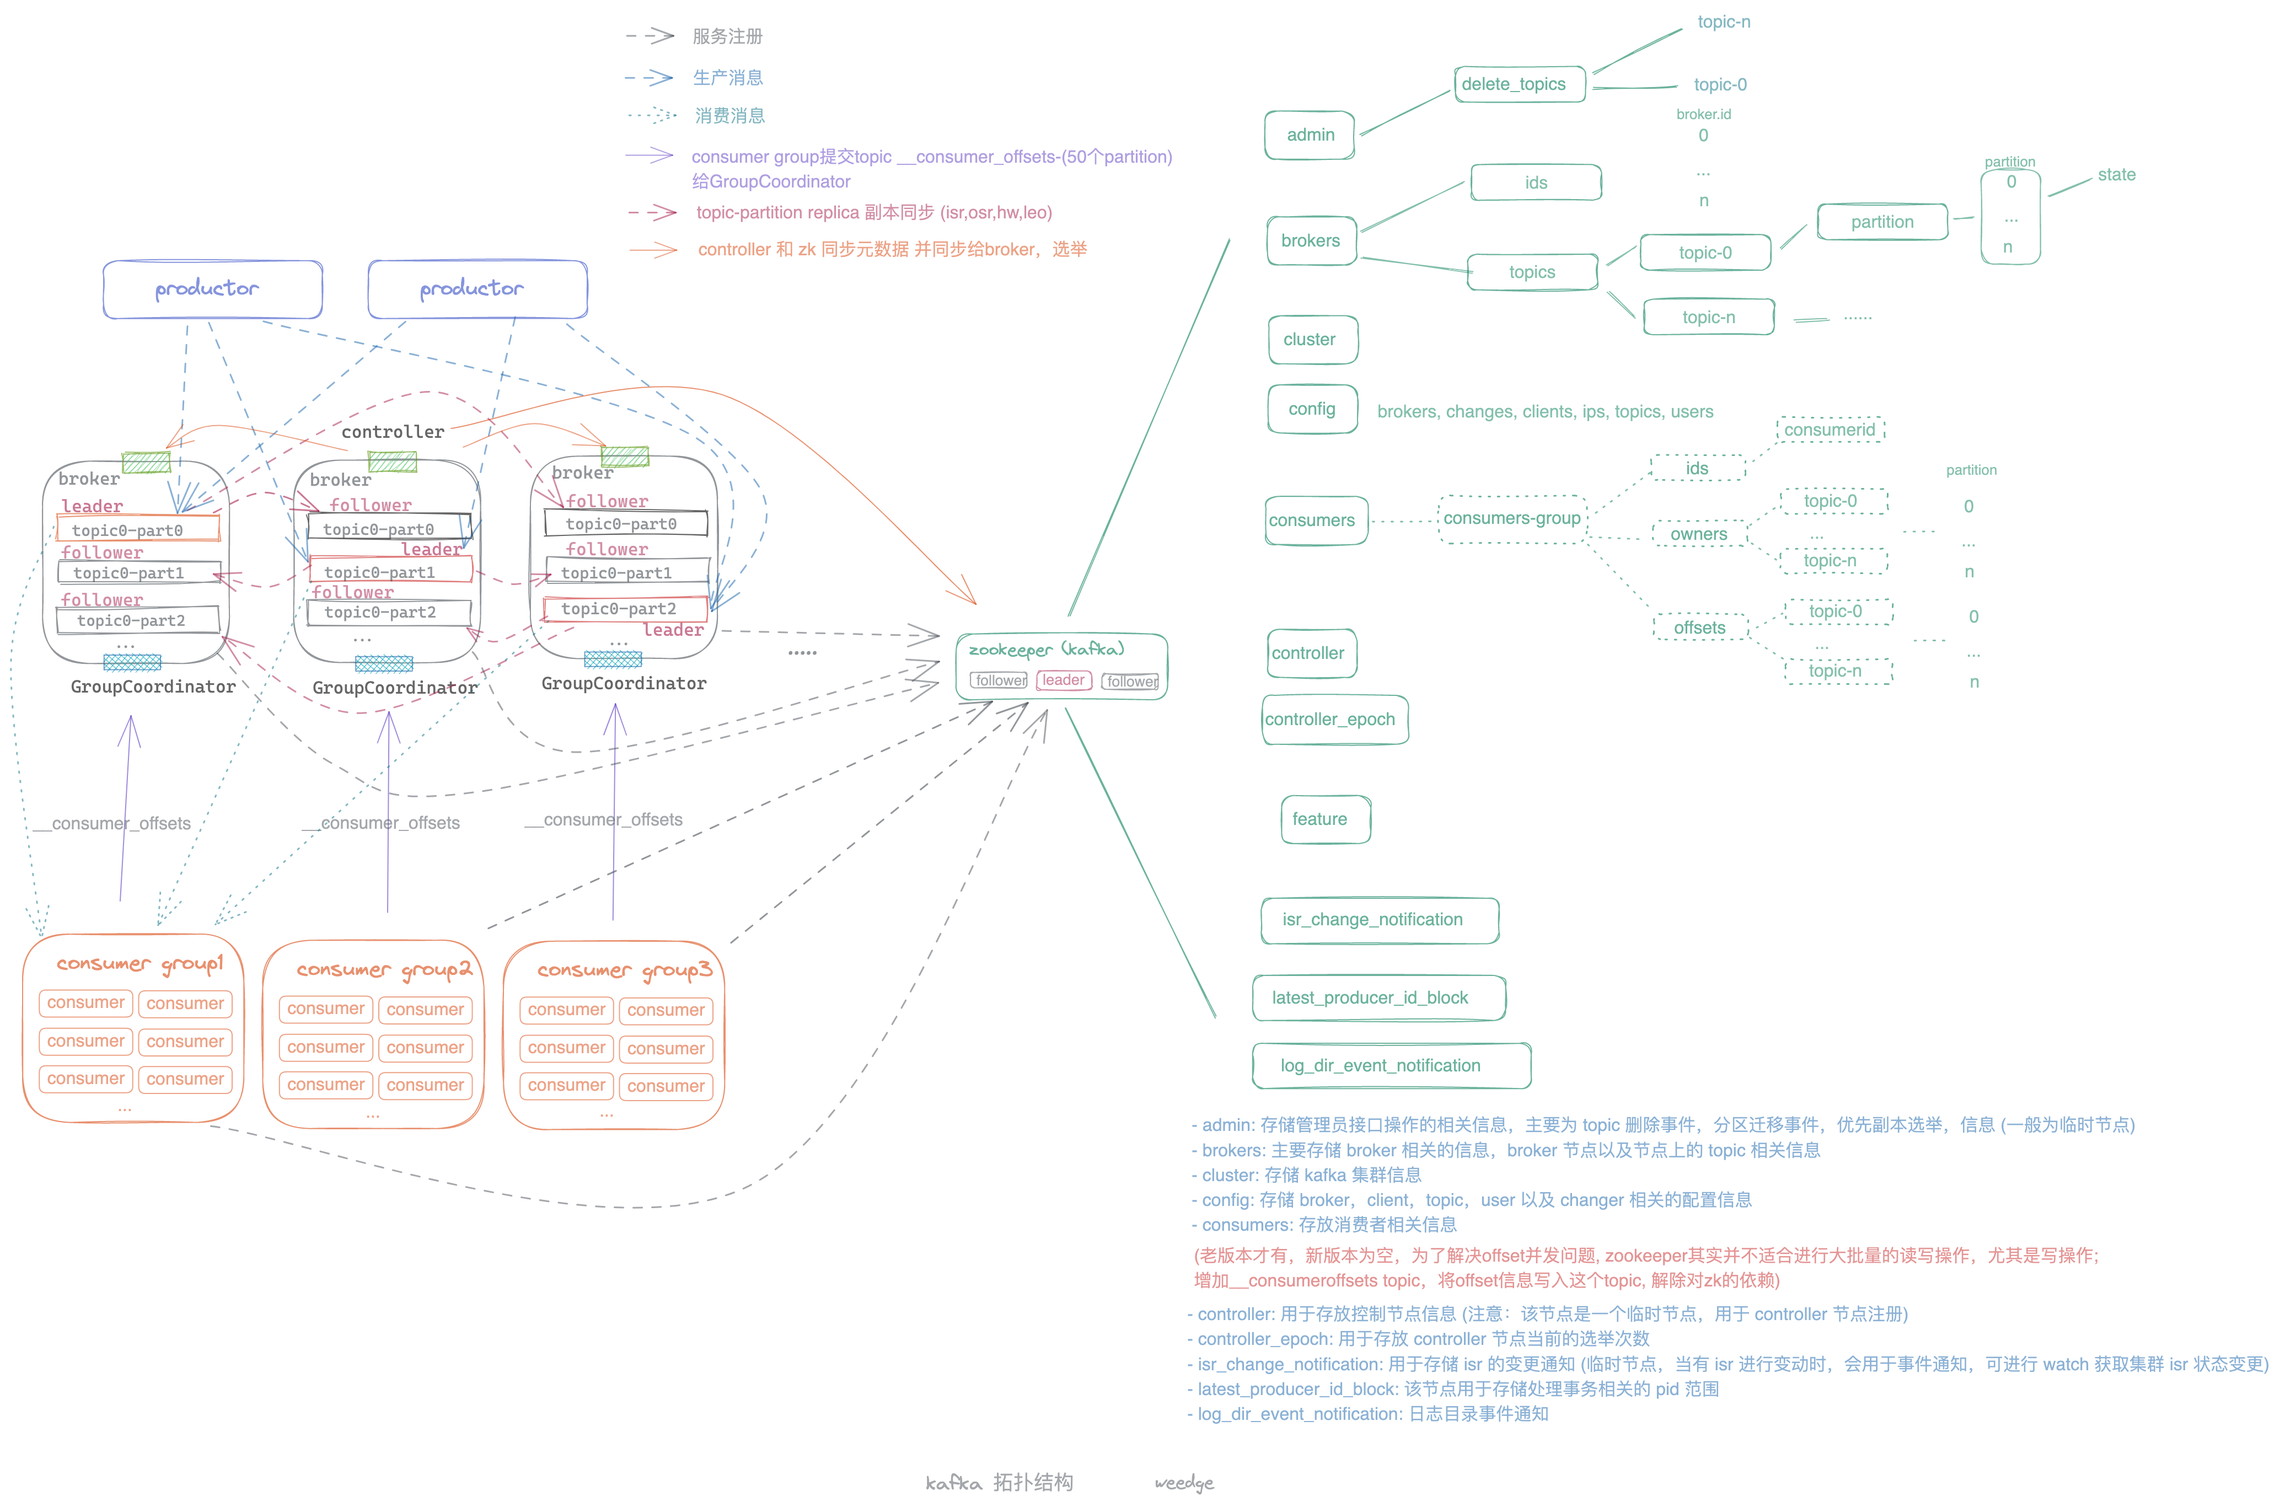
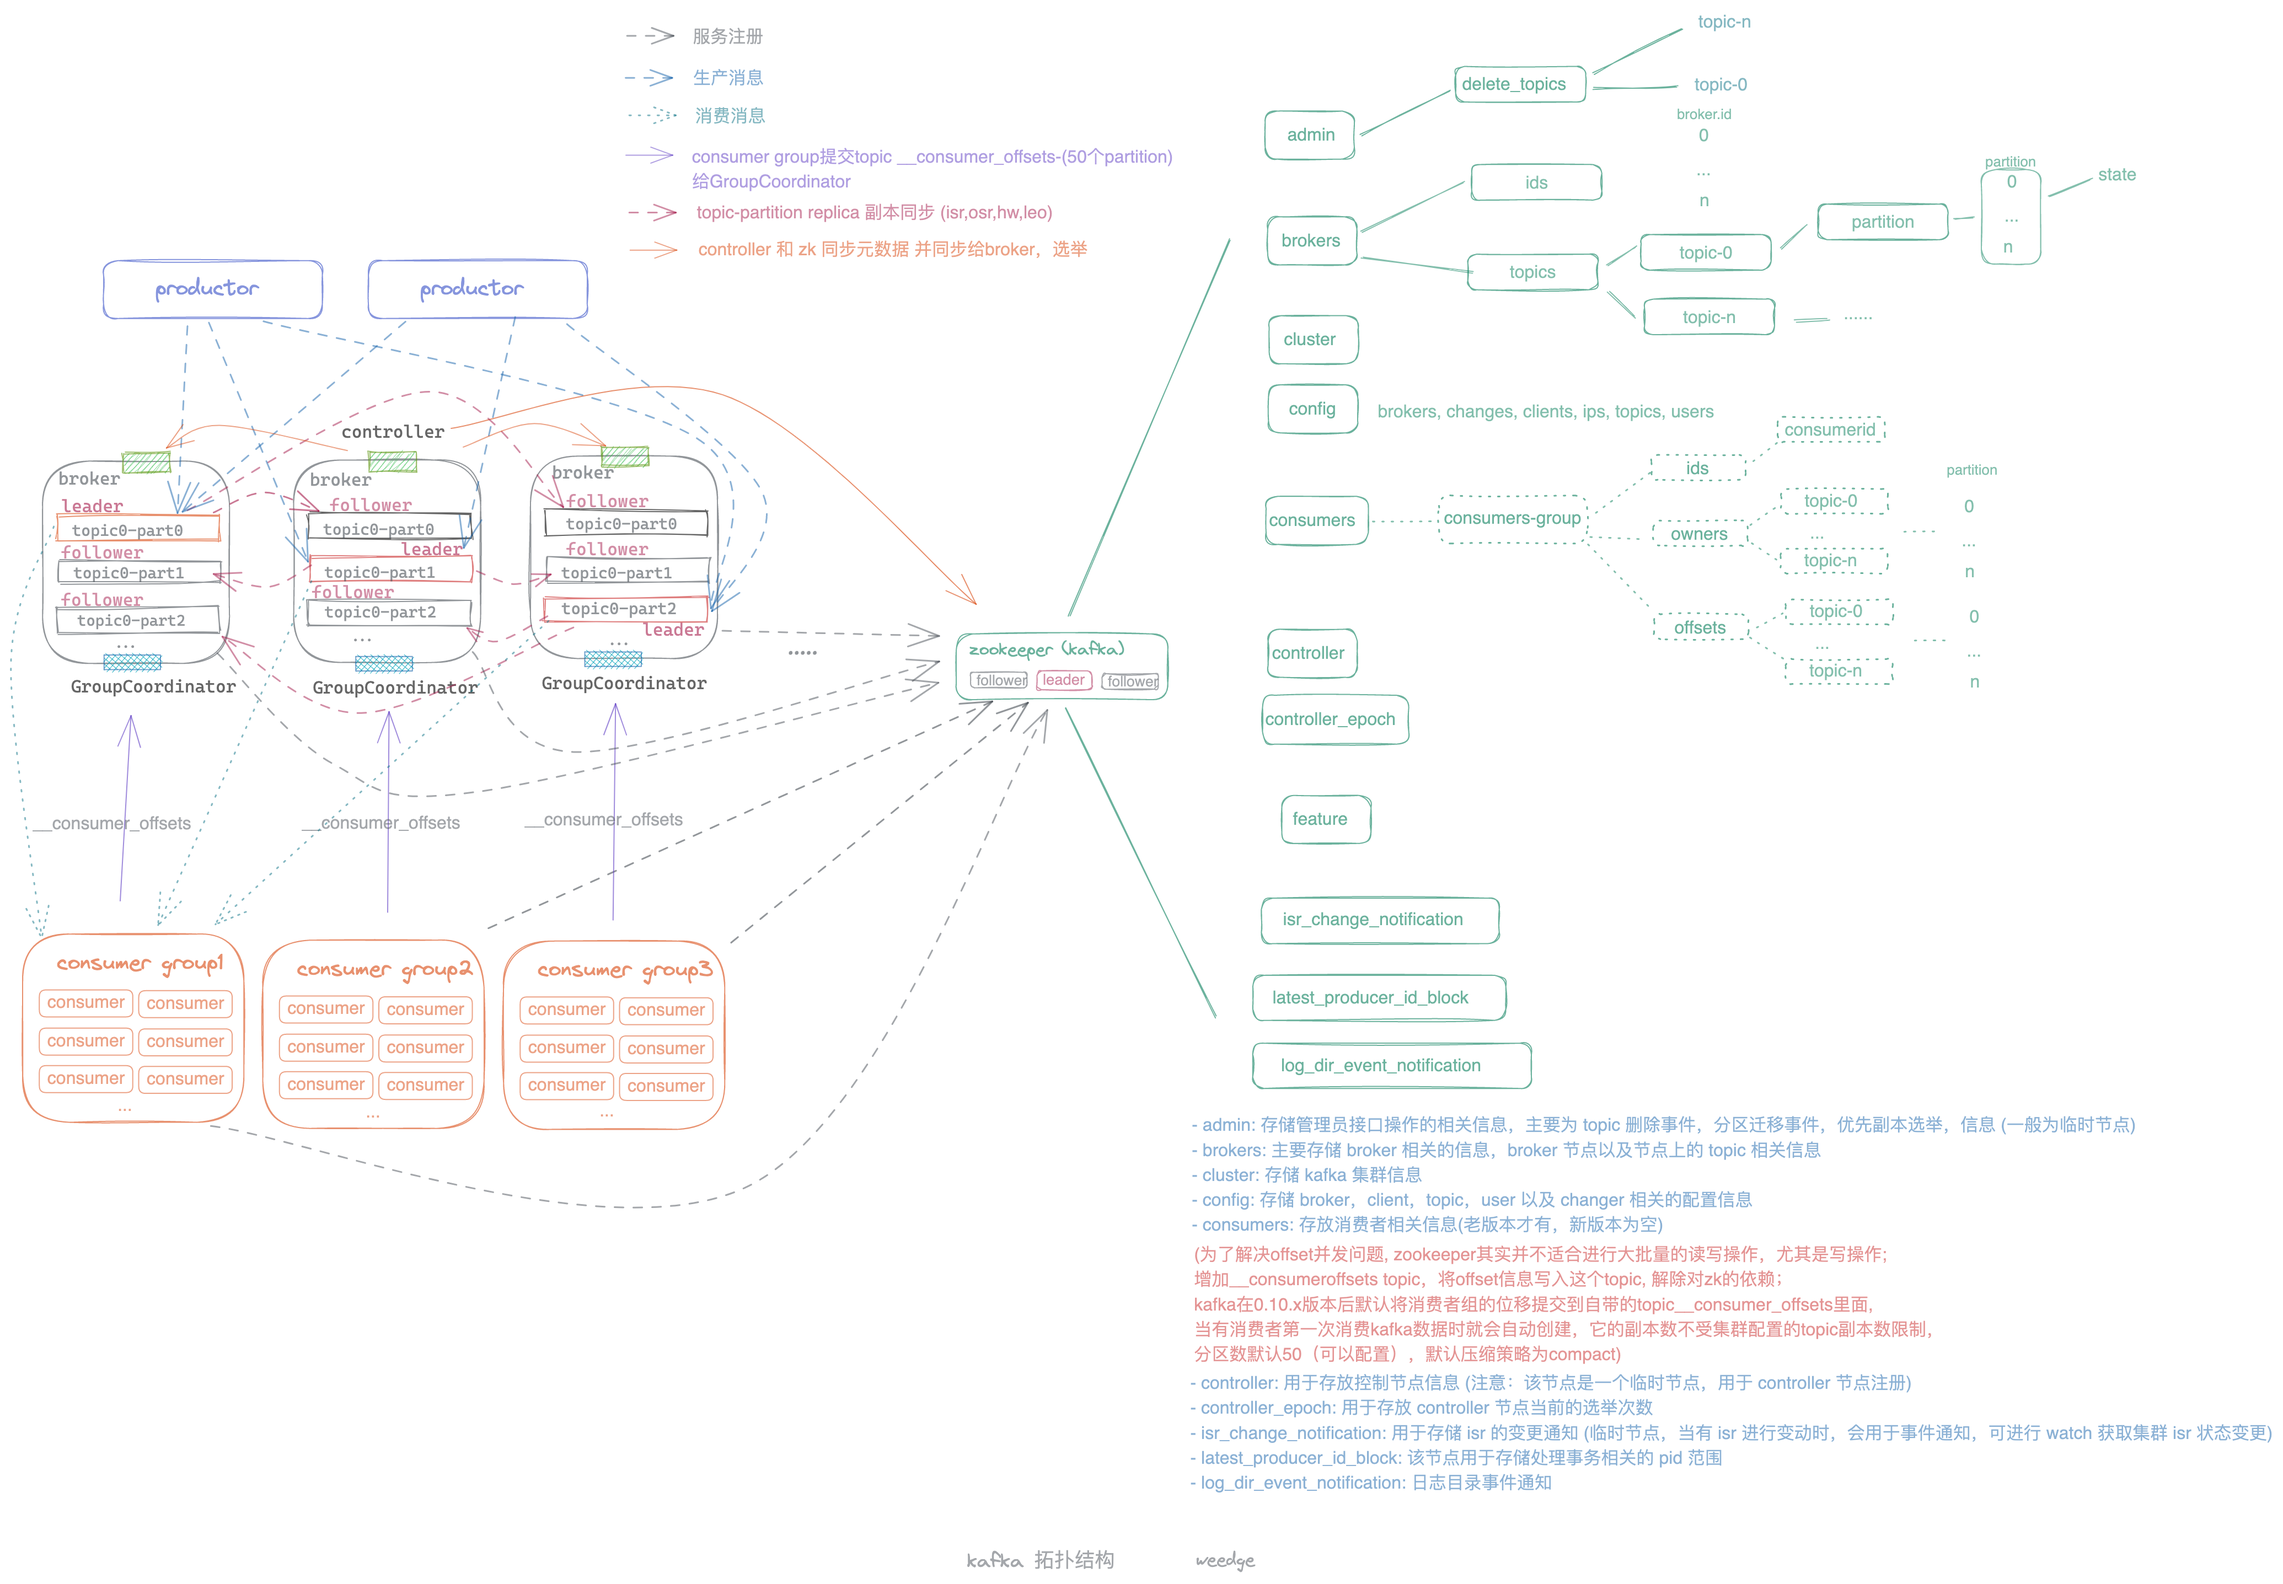
change kafka readme and kafka-zk.png

diff --git a/client/mq/kafka/readme.md b/client/mq/kafka/readme.md
@@ -28,5 +28,17 @@ type IConsumerMsg interface {
 
 具体操作见example test
 
+#### Kafka 拓扑结构
+
+![kafka-zk](https://raw.githubusercontent.com/weedge/lib/main/client/mq/kafka/kafka-zk.png)
+
+
+
+#### reference
+
+1. [Kafka 0.10.0 doc](https://kafka.apache.org/0100/documentation.html)
+2. [Kafka doc](https://kafka.apache.org/documentation.html) 最新版文档(2021/9/21 3.0版本)
+3. [Apache Kafka 3.0 发布，离彻底去掉 ZooKeeper 更进一步](https://www.infoq.cn/article/RTTzLOMBPOx2TsL7dM9T)
+
 
 
